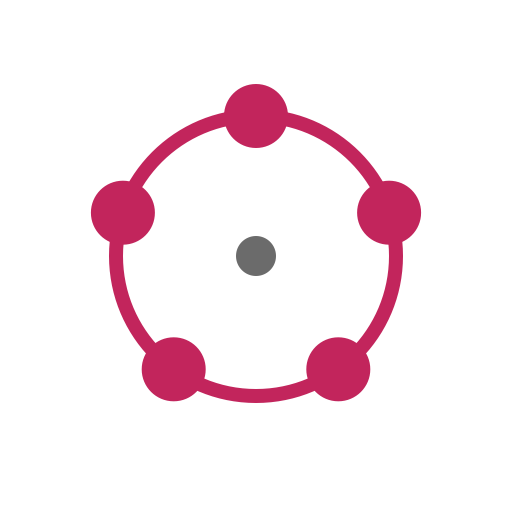
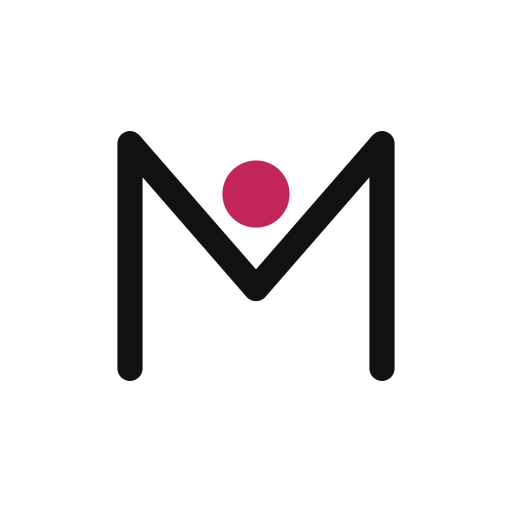
feat(brand): 로고 C안(M 나무) 채택 — 아이콘 파일 교체, 브랜드 가이드·테스트 갱신 (MOM-18)

Changed region(s): [[0.1562, 0.1562, 0.8438, 0.8125]]

diff --git a/tests/logo.test.ts b/tests/logo.test.ts
@@ -4,11 +4,12 @@ import { existsSync, readFileSync } from "node:fs";
 import { join } from "node:path";
 
 const dir = join(process.cwd(), "docs/logo-proposals");
+const applied = join(process.cwd(), "docs/logo-proposals/momentree/icon-c.svg"); // 2026-11-15 채택한 C안(M 나무)
 const files = ["a", "b", "c"].flatMap((n) => [`icon-${n}.svg`, `wordmark-${n}.svg`]);
 
-test("적용된 앱 아이콘: public/icon.svg는 B, manifest·layout이 실제 파일을 가리킨다", () => {
+test("적용된 앱 아이콘: public/icon.svg는 C(M 나무), manifest·layout이 실제 파일을 가리킨다", () => {
   const svg = readFileSync("public/icon.svg", "utf8");
-  assert.equal(svg, readFileSync(join(dir, "icon-b.svg"), "utf8"));
+  assert.equal(svg, readFileSync(applied, "utf8"));
   assert.match(svg, /<rect [^>]*fill="#FFFFFF"/);
   const manifest = readFileSync("src/app/manifest.ts", "utf8");
   const srcs = [...manifest.matchAll(/src: "(\/[^"]+)"/g)].map((m) => m[1]);

diff --git a/docs/brand-guide.md b/docs/brand-guide.md
@@ -36,4 +36,4 @@
 - 청첩장 템플릿 내부의 캘리그래피 폰트는 템플릿 개별 디자인이며 브랜드 폰트가 아니다.
 
 ## 로고
-B 둘러앉은 원(흰 배경) 채택. 서비스명은 마당(잠정, 상표 확인 전)이라 코드의 서비스명은 아직 바꾸지 않았다. 시안: `docs/logo-proposals/`. 적용 파일: `public/icon.svg`, `icon-192.png`, `icon-512.png`, `icon-512-maskable.png`, `apple-touch-icon.png`.
+C안 "M 나무" 채택(2026-11-15, MOM-18). M 글자 안에 로즈 점 하나가 있고, 점이 순간(moment)이다. 검정 `#111`과 로즈 `#C2255C`만 쓴다. 시안: `docs/logo-proposals/momentree/`. 적용 파일: `public/icon.svg`(원본), `icon-192.png`, `icon-512.png`, `icon-512-maskable.png`(꽉 찬 흰 배경, 글자는 안전 영역 안), `apple-touch-icon.png`. 이름은 Momentree로 확정이라 예전 마당 시절 시안(`docs/logo-proposals/` 바로 아래)은 참고용이다.
